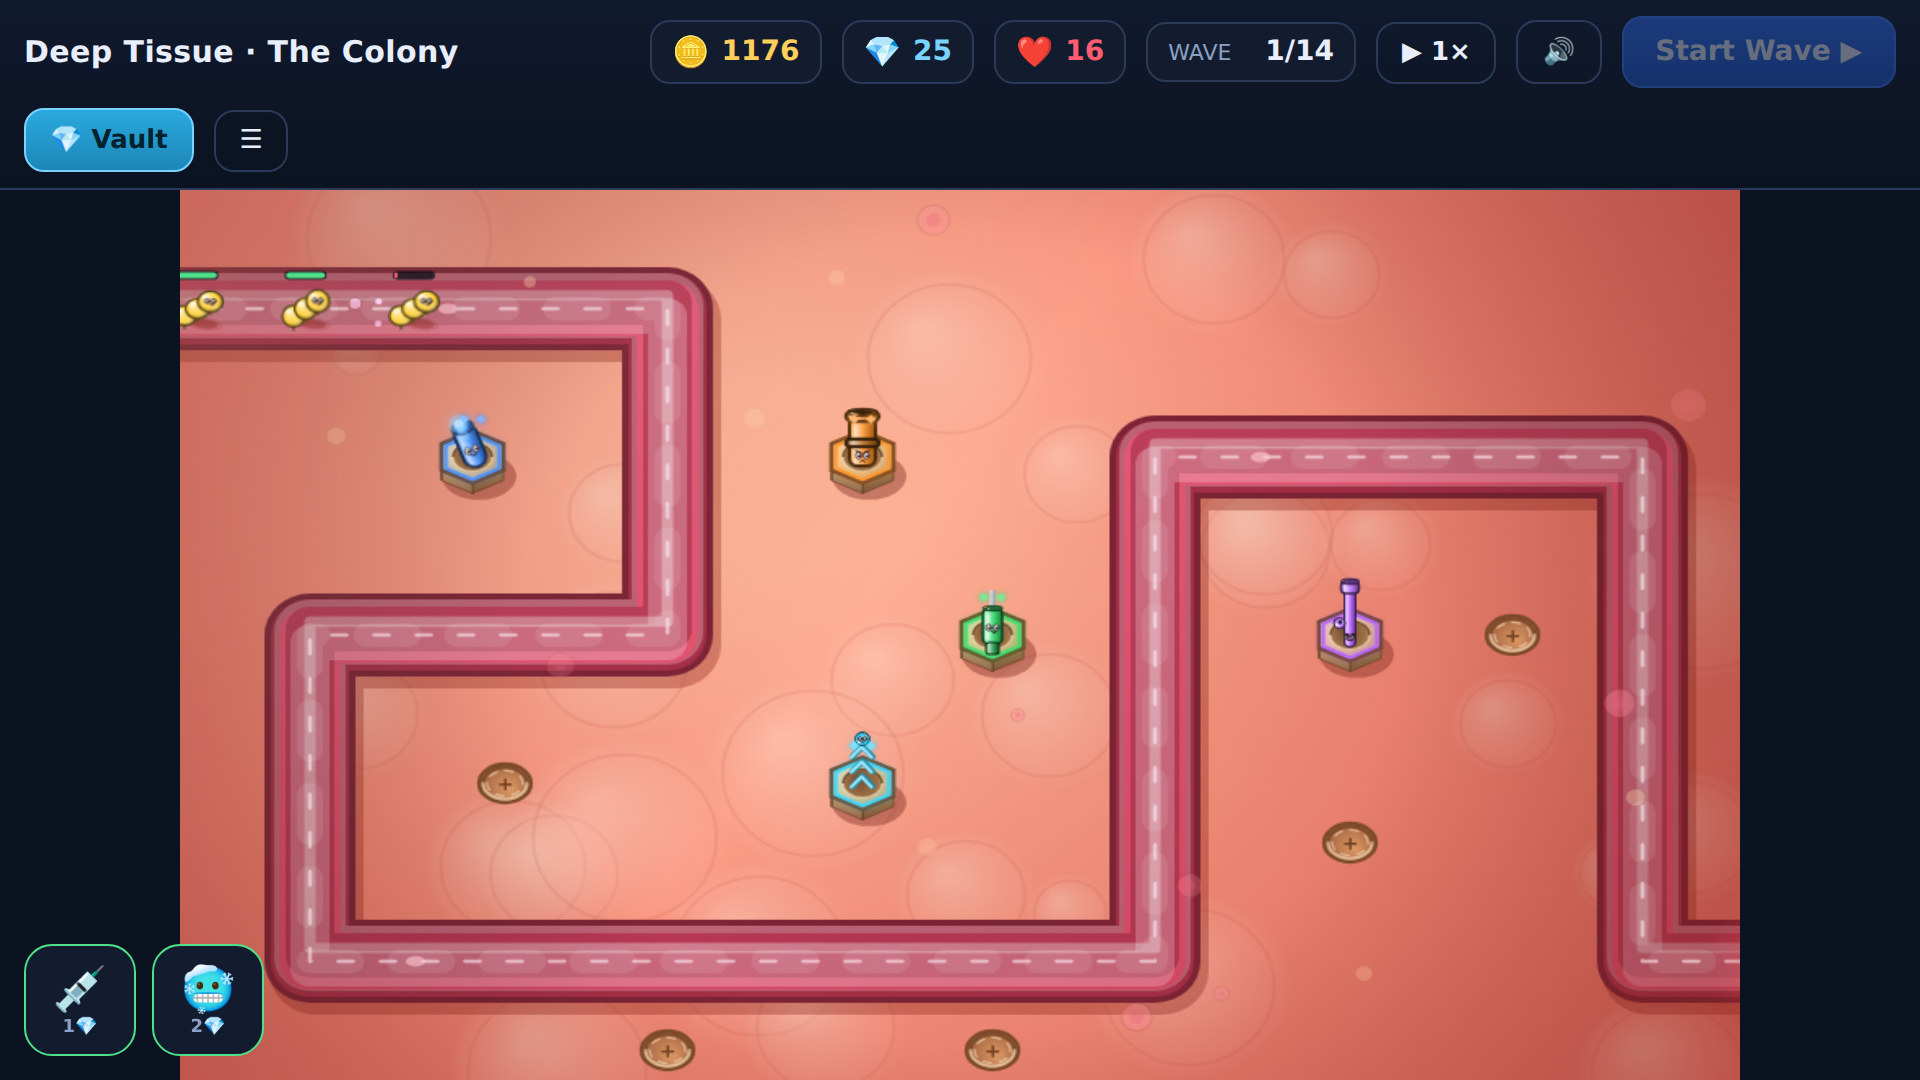
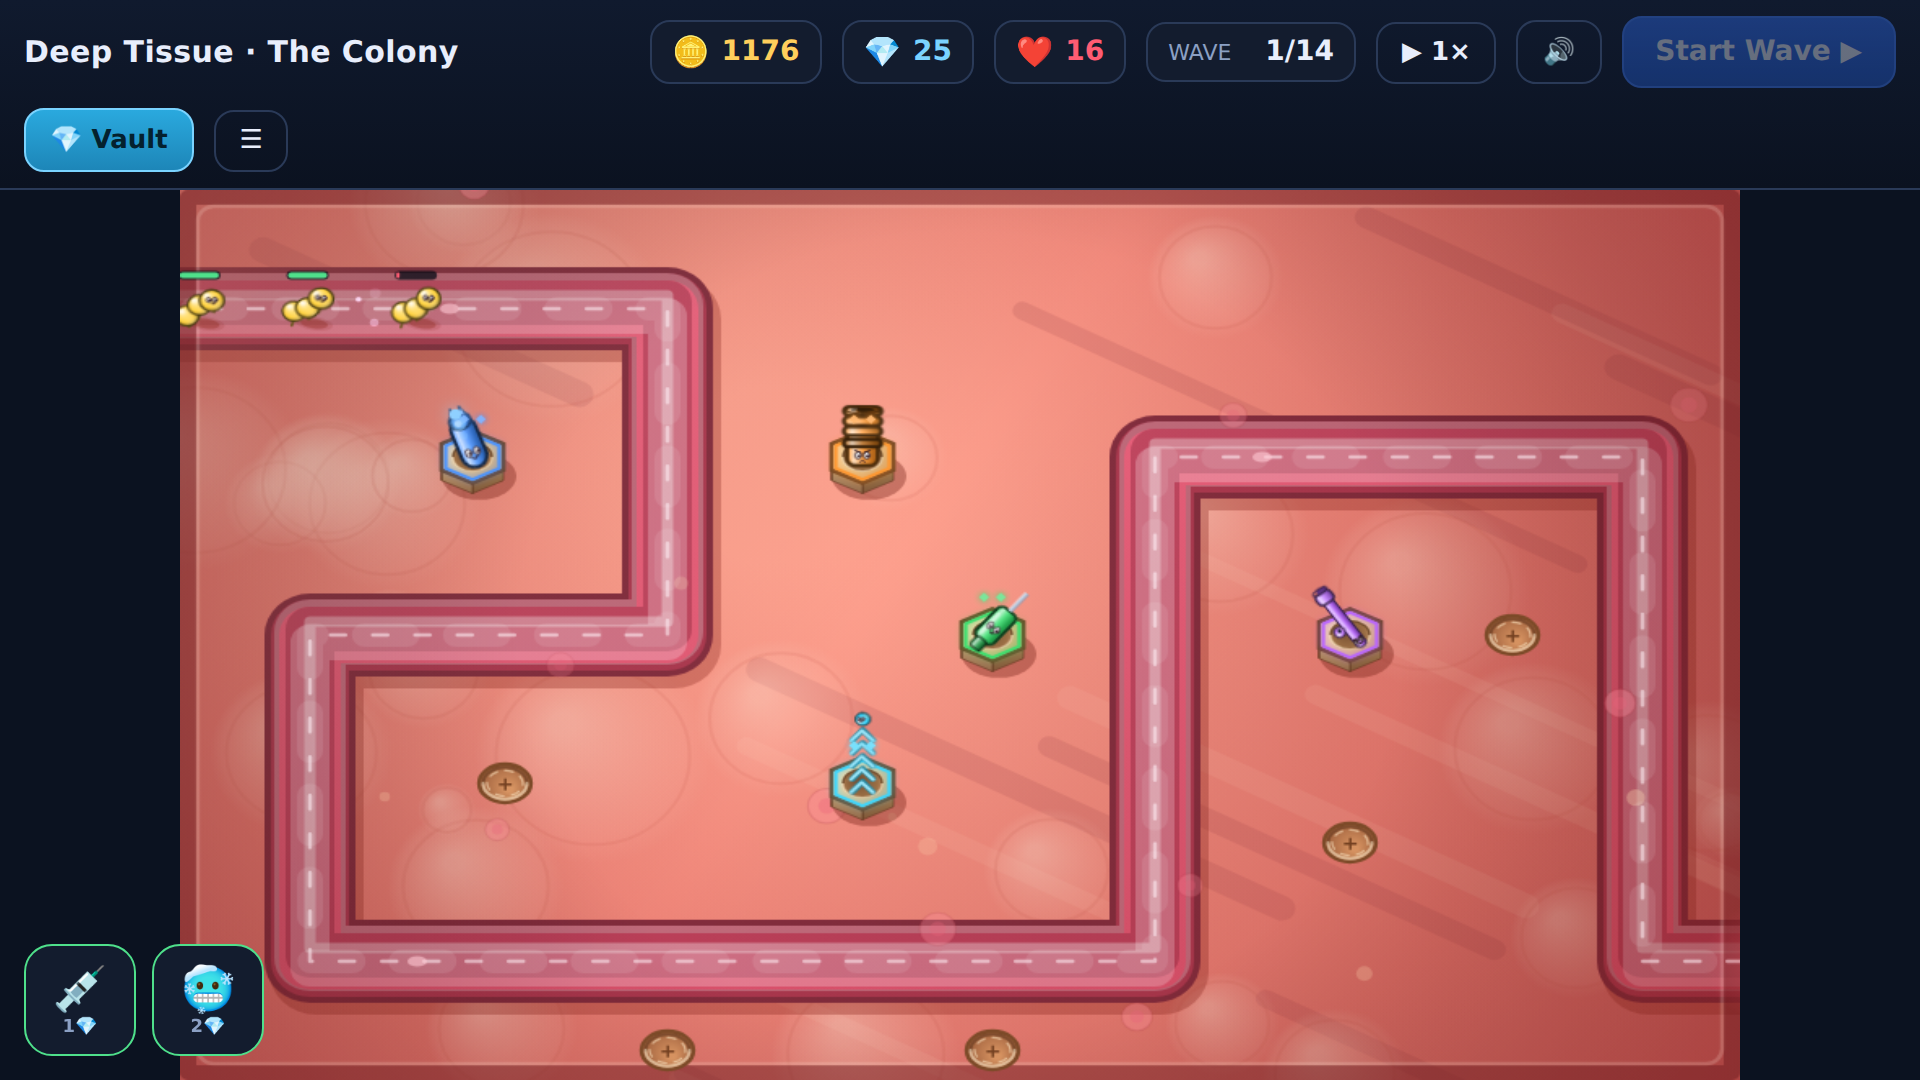
Per-chapter biome environments: six visually distinct maps
Fourth pass of the art-gap program - environment density:

- Each level carries a theme (palette + biome prop set) driving the
  background: Bloodstream (coral, drifting red cells), Lymph Node
  (pink, dashed follicle rings + white lymphocytes), Deep Tissue
  (rose, diagonal muscle-fiber striations), Bone Marrow (golden,
  trabecular honeycomb arcs + fat globules), The Heart (red cardiac
  striations + a faint giant heart landmark), Endless (purple septic
  debris + toxic bubbles)
- Decorated border frame (dark outer stroke + light inner rounded
  frame) so each map reads as a designed level
- Live breathing-light overlay: slow pulsing warm glow over the
  tissue, giving the world constant subtle motion

Verified with a 6-map contact sheet - each chapter is distinct at a
glance; 60fps held; all suites pass; store screenshots regenerated.
SW cache bumped to v11.

Claude-Session: https://claude.ai/code/session_01CBLR6UDHsp9bXg6zzSDAZ5

diff --git a/tower-defense/index.html b/tower-defense/index.html
@@ -340,7 +340,7 @@ const LEVELS = [
     name:'Bloodstream · The First Breach', chapter:'CHAPTER 1',
     story:"A splinter wound has seeded the bloodstream. Pathogens stream toward the heart. Station your first responders along the vessel and don't let them reach vital tissue.",
     objective:'Survive 10 waves · Starting gold 320 · 20 lives',
-    startGold:320, lives:20, hpScale:1,
+    startGold:320, lives:20, hpScale:1, theme:{bg:['#ffb397','#f4806e','#d75f58'], prop:'redcell'},
     path:[[-30,120],[220,120],[220,300],[520,300],[520,140],[760,140],[760,440],[990,440]],
     slots:slotGrid([[120,220],[320,220],[320,400],[420,200],[620,260],[660,340],[680,540],[860,300],[140,380],[520,470]]),
     waves:buildWaves(10, ['bacterium','strep'], false, 1)
@@ -349,7 +349,7 @@ const LEVELS = [
     name:'Lymph Node · Swarm Season', chapter:'CHAPTER 2',
     story:"The infection reached the lymph nodes and is replicating fast. Viral particles now slip through — they fly past ground defenses. Diversify, or be overrun.",
     objective:'Survive 12 waves · Flying viruses appear · 18 lives',
-    startGold:360, lives:18, hpScale:1.15,
+    startGold:360, lives:18, hpScale:1.15, theme:{bg:['#ffd3e0','#f2a6c0','#cf7d9d'], prop:'lymph'},
     path:[[-30,300],[180,300],[180,120],[460,120],[460,460],[760,460],[760,200],[990,200]],
     slots:slotGrid([[110,200],[280,200],[280,420],[380,240],[560,240],[560,380],[660,360],[860,120],[380,540],[680,540]]),
     waves:buildWaves(12, ['bacterium','strep','virus','staph'], false, 2)
@@ -358,7 +358,7 @@ const LEVELS = [
     name:'Deep Tissue · The Colony', chapter:'CHAPTER 3',
     story:"Down in the tissue, survivors formed a biofilm — a slime fortress that shrugs off single doses. Combination therapy and armor-piercing agents are your only hope.",
     objective:'Survive 14 waves · Armored biofilms · Boss finale',
-    startGold:500, lives:16, hpScale:1.25,
+    startGold:500, lives:16, hpScale:1.25, theme:{bg:['#ff9d8a','#e26e66','#b84d55'], prop:'fiber'},
     path:[[-30,80],[300,80],[300,300],[80,300],[80,520],[600,520],[600,180],[900,180],[900,520],[990,520]],
     slots:slotGrid([[180,180],[420,180],[200,400],[420,400],[500,300],[720,300],[720,440],[500,580],[820,300],[300,580]]),
     waves:buildWaves(14, ['strep','staph','virus','fungus','biofilm'], true, 3)
@@ -367,7 +367,7 @@ const LEVELS = [
     name:'Bone Marrow · Reinforcements', chapter:'CHAPTER 4',
     story:"The infection has reached the marrow — the factory of your defenders. Production lines are stalling while fungal spores burrow deep. Hold the corridors long enough for a fresh generation of immune cells to mature.",
     objective:'Survive 16 waves · Fungal burrows · Long corridors',
-    startGold:520, lives:15, hpScale:1.35,
+    startGold:520, lives:15, hpScale:1.35, theme:{bg:['#ffe3b3','#f2b378','#d18a52'], prop:'bone'},
     path:[[-30,520],[200,520],[200,120],[440,120],[440,420],[680,420],[680,120],[990,120]],
     slots:slotGrid([[120,420],[120,220],[300,220],[300,420],[520,220],[540,520],[770,220],[780,480],[880,220],[440,540]]),
     waves:buildWaves(16, ['bacterium','virus','staph','fungus'], false, 4)
@@ -376,7 +376,7 @@ const LEVELS = [
     name:'The Heart · Last Stand', chapter:'CHAPTER 5',
     story:"Everything converges on the heart. The pan-resistant strain has adapted, splitting into twin superbugs, and every pathogen you have ever fought marches behind them. This is the last line. There is nothing after it.",
     objective:'Survive 18 waves · Twin boss finale · Everything attacks',
-    startGold:560, lives:14, hpScale:1.45,
+    startGold:560, lives:14, hpScale:1.45, theme:{bg:['#ff9e8e','#e85a55','#b3323c'], prop:'muscle'},
     path:[[-30,100],[150,100],[150,500],[380,500],[380,100],[610,100],[610,500],[840,500],[840,100],[990,100]],
     slots:slotGrid([[80,300],[265,200],[265,400],[495,200],[495,400],[725,200],[725,400],[910,300],[80,520],[910,520]]),
     waves:buildWaves(18, ['strep','virus','staph','fungus','biofilm'], 2, 5)
@@ -385,7 +385,7 @@ const LEVELS = [
     name:'Endless · Septic Surge', chapter:'ENDLESS MODE', endless:true,
     story:"A limitless surge of pathogens pours through the bloodstream, each wave stronger than the last, with superbugs arriving every tenth wave. There is no victory here — only the record of how long you held. Good luck.",
     objective:'Survive as long as you can · Boss every 10th wave · Personal best is saved',
-    startGold:450, lives:20, hpScale:1.2,
+    startGold:450, lives:20, hpScale:1.2, theme:{bg:['#e8a0c0','#bd6b9a','#84446e'], prop:'debris'},
     path:[[-30,120],[220,120],[220,300],[520,300],[520,140],[760,140],[760,440],[990,440]],
     slots:slotGrid([[120,220],[320,220],[320,400],[420,200],[620,260],[660,340],[680,540],[860,300],[140,380],[520,470]]),
     waves:buildEndlessWaves(200, ['bacterium','strep','virus','staph','fungus','biofilm'], 9)
@@ -1075,15 +1075,69 @@ function spawnParticles(px,py,color,n,sp){
     G.particles.push({x:px,y:py,vx:Math.cos(a)*v,vy:Math.sin(a)*v,life:0.45+Math.random()*0.35,max:0.8,r:1.5+Math.random()*2.2,color}); }
 }
 
+/* ---- per-chapter biome props: each map reads as its own place ---- */
+function drawBiome(c, th, rnd){
+  const P=th.prop;
+  if(P==='redcell'){          // bloodstream: big drifting red cells
+    for(let i=0;i<9;i++){ const bx=rnd()*W, by=rnd()*H, br=16+rnd()*22;
+      c.globalAlpha=0.28; c.fillStyle='#e0556a';
+      c.beginPath(); c.ellipse(bx,by,br,br*0.72,rnd()*2,0,7); c.fill();
+      c.fillStyle='#c23c52'; c.beginPath(); c.ellipse(bx,by,br*0.5,br*0.34,rnd(),0,7); c.fill();
+      c.globalAlpha=1; }
+  } else if(P==='lymph'){     // lymph node: follicle rings + white lymphocytes
+    for(let i=0;i<6;i++){ const bx=rnd()*W, by=rnd()*H, br=40+rnd()*50;
+      c.strokeStyle='rgba(255,255,255,0.25)'; c.lineWidth=6; c.setLineDash([12,10]);
+      c.beginPath(); c.arc(bx,by,br,0,7); c.stroke(); c.setLineDash([]); }
+    for(let i=0;i<12;i++){ const bx=rnd()*W, by=rnd()*H, br=6+rnd()*8;
+      c.globalAlpha=0.55; c.fillStyle='#fff5fa'; c.beginPath(); c.arc(bx,by,br,0,7); c.fill();
+      c.fillStyle='#d9a8c4'; c.beginPath(); c.arc(bx+br*0.15,by,br*0.5,0,7); c.fill(); c.globalAlpha=1; }
+  } else if(P==='fiber'){     // deep tissue: diagonal muscle-fiber striations
+    c.globalAlpha=0.16; c.lineCap='round';
+    for(let i=0;i<16;i++){ const y0=rnd()*H*1.4-H*0.2, ln=180+rnd()*260, x0=rnd()*W;
+      c.strokeStyle=i%2?'#8f2f3c':'#ffb9a8'; c.lineWidth=8+rnd()*10;
+      c.beginPath(); c.moveTo(x0,y0); c.lineTo(x0+ln*0.9,y0+ln*0.45); c.stroke(); }
+    c.globalAlpha=1;
+  } else if(P==='bone'){      // marrow: trabecular honeycomb + fat globules
+    c.strokeStyle='rgba(190,130,70,0.30)'; c.lineWidth=7;
+    for(let i=0;i<11;i++){ const bx=rnd()*W, by=rnd()*H, br=24+rnd()*34;
+      c.beginPath(); c.arc(bx,by,br,rnd()*3,rnd()*3+2.4); c.stroke(); }
+    for(let i=0;i<8;i++){ const bx=rnd()*W, by=rnd()*H, br=10+rnd()*14;
+      c.globalAlpha=0.5; c.fillStyle='#fff2cc'; c.beginPath(); c.arc(bx,by,br,0,7); c.fill();
+      c.globalAlpha=0.25; c.fillStyle='#d9a860'; c.beginPath(); c.arc(bx,by,br,0,7); c.stroke(); c.globalAlpha=1; }
+  } else if(P==='muscle'){    // heart: horizontal cardiac striations + faint giant heart
+    c.globalAlpha=0.14;
+    for(let y=0;y<H;y+=26){ c.strokeStyle=(y/26)%2?'#8f1f2e':'#ffc2b3'; c.lineWidth=9;
+      c.beginPath(); c.moveTo(-10,y+Math.sin(y)*6);
+      for(let x2=0;x2<=W+20;x2+=60) c.lineTo(x2,y+Math.sin(x2*0.02+y)*8); c.stroke(); }
+    c.globalAlpha=0.13; c.fillStyle='#7d1626';
+    const hx=W*0.5,hy=H*0.52,sz=170;
+    c.beginPath(); c.moveTo(hx,hy+sz*0.78);
+    c.bezierCurveTo(hx-sz*1.15,hy+sz*0.12,hx-sz*0.72,hy-sz*0.72,hx,hy-sz*0.18);
+    c.bezierCurveTo(hx+sz*0.72,hy-sz*0.72,hx+sz*1.15,hy+sz*0.12,hx,hy+sz*0.78);
+    c.fill(); c.globalAlpha=1;
+  } else {                    // endless: septic debris + toxic bubbles
+    for(let i=0;i<14;i++){ const bx=rnd()*W, by=rnd()*H, br=3+rnd()*7;
+      c.globalAlpha=0.35; c.fillStyle=rnd()<0.5?'#5e2a4a':'#8a3e66';
+      c.save(); c.translate(bx,by); c.rotate(rnd()*3);
+      c.beginPath(); c.moveTo(-br,0); c.lineTo(0,-br*0.7); c.lineTo(br,0); c.lineTo(0,br*0.7);
+      c.closePath(); c.fill(); c.restore(); c.globalAlpha=1; }
+    for(let i=0;i<8;i++){ const bx=rnd()*W, by=rnd()*H, br=8+rnd()*14;
+      c.strokeStyle='rgba(220,255,230,0.3)'; c.lineWidth=2;
+      c.beginPath(); c.arc(bx,by,br,0,7); c.stroke(); }
+  }
+}
+
 /* ---- static per-level background: organic tissue + vessel ---- */
 function buildBG(){
   BG=mkCanvas(W,H);
   const c=BG.getContext('2d');
   const rnd=mulberry32(101+G.levelIdx*13);
-  // bright cartoon tissue
+  // bright cartoon tissue, themed per chapter
+  const th=(G.L.theme)||{bg:['#ffb397','#f4806e','#d75f58'],prop:'redcell'};
   let g=c.createRadialGradient(W*0.38,H*0.32,60,W*0.5,H*0.5,W*0.75);
-  g.addColorStop(0,'#ffb397'); g.addColorStop(0.55,'#f4806e'); g.addColorStop(1,'#d75f58');
+  g.addColorStop(0,th.bg[0]); g.addColorStop(0.55,th.bg[1]); g.addColorStop(1,th.bg[2]);
   c.fillStyle=g; c.fillRect(0,0,W,H);
+  drawBiome(c, th, rnd);
   // playful cell polka-dots
   for(let i=0;i<30;i++){ const bx=rnd()*W, by=rnd()*H, br=18+rnd()*55;
     g=c.createRadialGradient(bx-br*0.25,by-br*0.3,br*0.1,bx,by,br);
@@ -1114,6 +1168,11 @@ function buildBG(){
   g=c.createRadialGradient(W/2,H/2,H*0.45,W/2,H/2,H*0.95);
   g.addColorStop(0,'rgba(0,0,0,0)'); g.addColorStop(1,'rgba(120,25,20,0.30)');
   c.fillStyle=g; c.fillRect(0,0,W,H);
+  // decorated border frame
+  c.strokeStyle='rgba(110,25,30,0.5)'; c.lineWidth=10;
+  c.strokeRect(5,5,W-10,H-10);
+  c.strokeStyle='rgba(255,230,215,0.20)'; c.lineWidth=2.5;
+  c.beginPath(); c.roundRect(11,11,W-22,H-22,10); c.stroke();
   // ambient drifting cells (drawn live; positions derived from elapsed)
   AMBIENT=[];
   for(let i=0;i<16;i++) AMBIENT.push({ x0:rnd()*W, y0:rnd()*H, vx:6+rnd()*10, vy:(rnd()-0.5)*6,
@@ -1125,6 +1184,11 @@ function draw(){
   CTX.save();
   if(G.shake>0.2) CTX.translate((Math.random()-0.5)*G.shake,(Math.random()-0.5)*G.shake);
   if(BG) CTX.drawImage(BG,0,0); else CTX.clearRect(0,0,W,H);
+  // tissue breathing: slow pulsing light
+  const br2=0.05+0.035*Math.sin(G.elapsed*0.9);
+  let bg2=CTX.createRadialGradient(W*0.45,H*0.4,60,W*0.5,H*0.5,W*0.7);
+  bg2.addColorStop(0,`rgba(255,244,225,${br2})`); bg2.addColorStop(1,'rgba(255,244,225,0)');
+  CTX.fillStyle=bg2; CTX.fillRect(0,0,W,H);
   // ambient drifting cells
   for(const am of AMBIENT){
     const ax=((am.x0+G.elapsed*am.vx)%(W+60))-30;

diff --git a/tower-defense/sw.js b/tower-defense/sw.js
@@ -1,6 +1,6 @@
 /* Immunopolis service worker: cache-first app shell for offline play.
    Bump CACHE_VERSION on every release that changes any shell file. */
-const CACHE_VERSION = 'immunopolis-v10';
+const CACHE_VERSION = 'immunopolis-v11';
 const SHELL = [
   './',
   './index.html',
